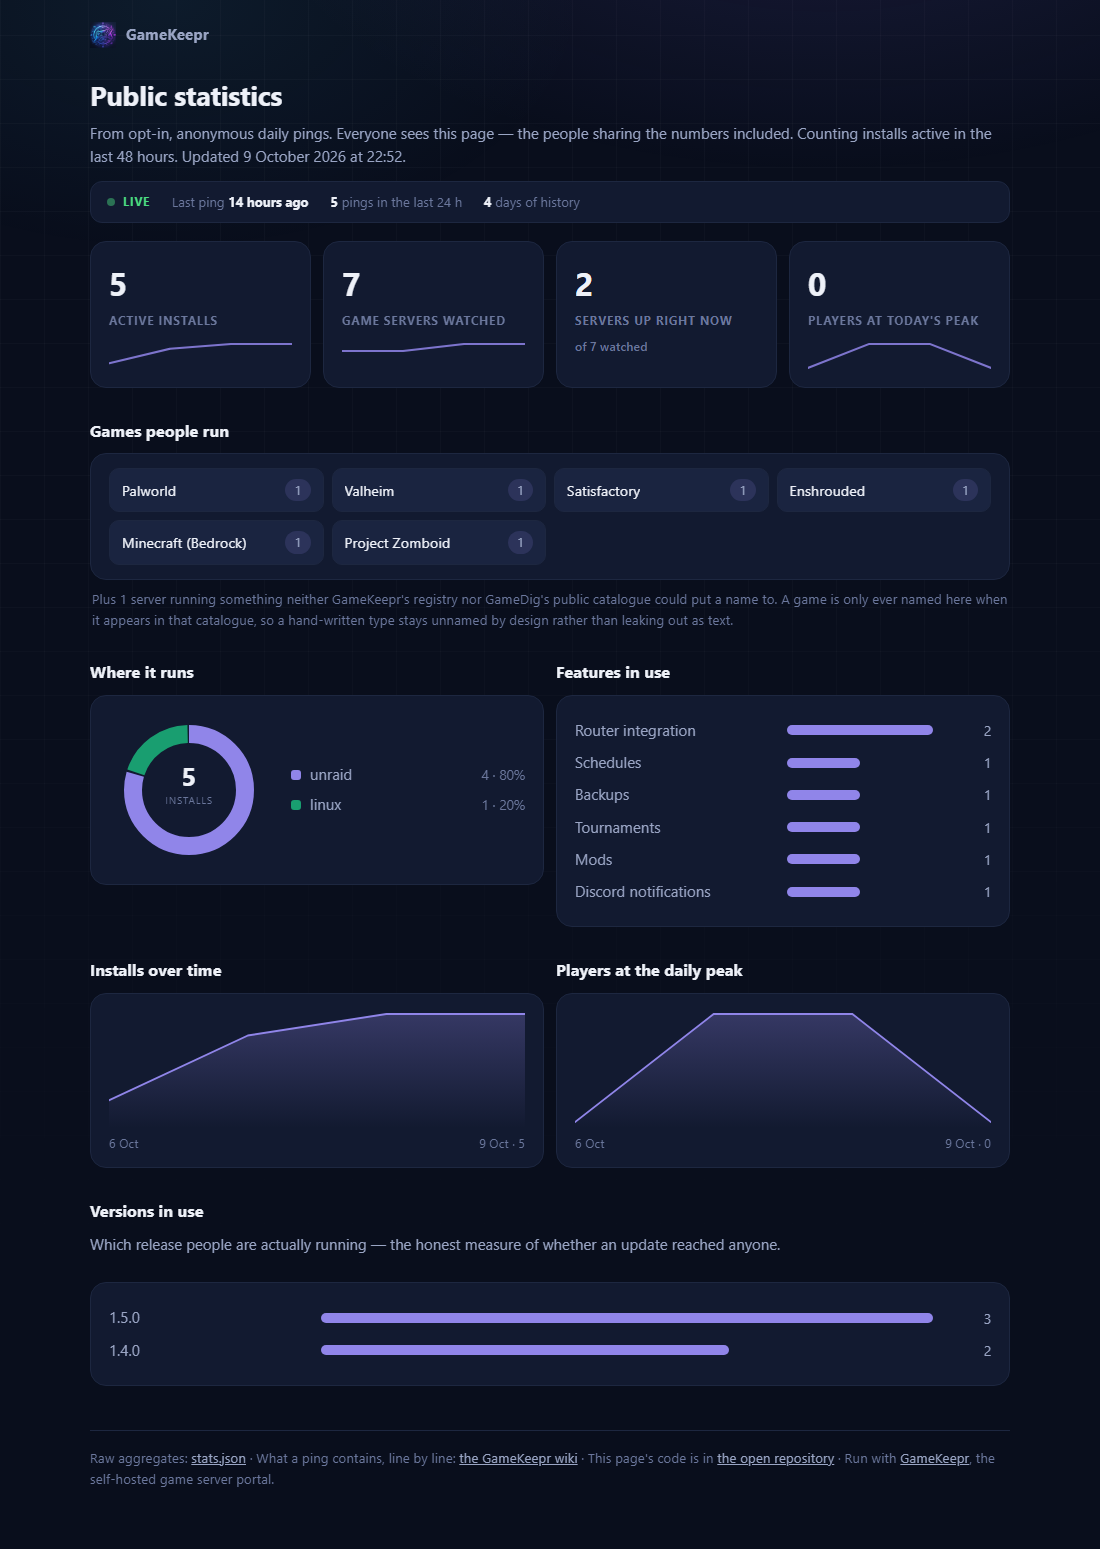
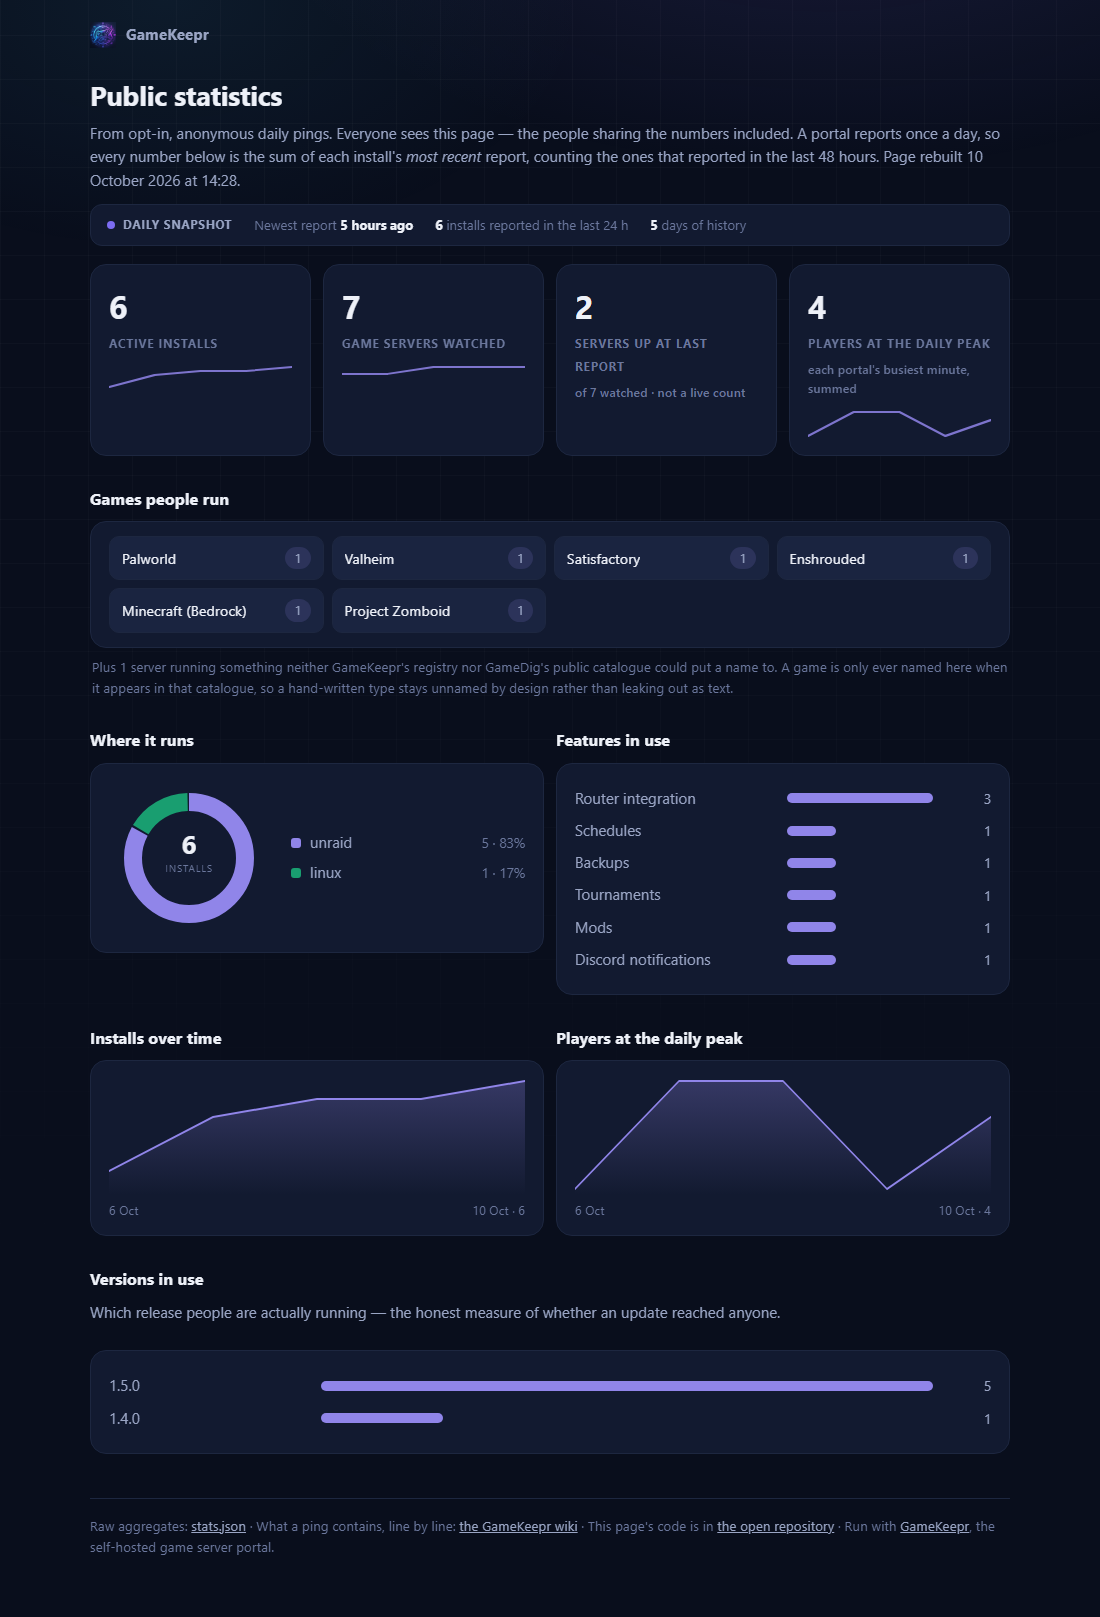
The page said "live" about numbers up to two days old
A portal reports once a day. Every figure on the statistics page is therefore
the sum of each install's most recent report, and the oldest of those may be
48 hours old. A pulsing green LIVE dot over that was the single dishonest
element on a page whose entire argument is that it tells you exactly what it
knows and nothing more.

It reads "Daily snapshot" now, the dot stopped pulsing, and the intro says
plainly that these are last reports rather than a feed. Three labels were
wrong in the same direction and went with it: the 24-hour figure counted
installs rather than pings (only the newest report per install is kept),
"servers up right now" is the count at each portal's last report, and the
peak sums each portal's own busiest minute, each measured at its own moment.

Deployed and re-shot for the wiki.

diff --git a/docs/changelog.html b/docs/changelog.html
@@ -26,7 +26,7 @@
 <h3>Changed</h3>
 <ul><li><strong>The public statistics page reads like a command centre.</strong> A status strip under the title says the page is listening rather than printed: a live dot, when the last ping landed, how many arrived in the last 24 hours and how many days of history exist. The four headline tiles carry a sparkline and, once there is a full week to compare against, how much they moved — never before, because a trend invented from two days is exactly the kind of confident nonsense this page exists not to produce. Games and the wish list became a board of counts instead of bars: every install runs one or two of a game, so a bar chart there was six bars of identical length, a shape that looks like data and carries none. The two trends now sit side by side, and <em>Versions in use</em> says why it is there — whether an update actually reached anyone. On a phone the tiles are a 2×2 board instead of a column. Still no chart library: this is a Cloudflare Worker, and every form is hand-rolled inline SVG on the validated palette.</li><li><strong>Fresh screenshots on the landing page and in the wiki.</strong> The shots on <a href="https://kengoossens.github.io/Gamekeep/" target="_blank" rel="noreferrer">the project page</a> dated from before 1.0.0 and showed a portal that no longer exists. Servers, the command centre, the Steam catalogue and the log console were all re-shot on 1.5.0, and the page now also says what deploy verification, tournaments and update detection do — three features it never mentioned.</li></ul>
 <h3>Fixed</h3>
-<ul><li><strong>&quot;Unknown&quot; no longer appears as a most-wanted game.</strong> A portal older than the wish-list split reports an unrecognised server as <code>Unknown</code> inside <code>games</code>, and the compatibility rule moved it onto the wish list — where it showed up as a bar literally labelled <em>Unknown</em>, which told a reader nothing and read like a bug. Those are now counted apart and written out as one sentence under <em>Games people run</em>: how many servers run something neither the registry nor GameDig could name, and why that is by design. Requires a mothership deploy to take effect.</li><li><strong>A failed metrics write could take the whole portal down.</strong> The sampler runs on a timer with no error handler, so a single failing insert — a database locked by a backup, a full disk — became an unhandled rejection and Node exited. Caught while shooting the new screenshots, where a second process held the database for a moment. The write is now guarded and the sample is dropped with a line in the log; the same guard was put on the down-detector and the update sweep, which had the same shape.</li></ul>
+<ul><li><strong>The statistics page called itself live, and it is not.</strong> A portal reports once a day, so every number on that page is the sum of each install's most recent report — some of them nearly two days old. A pulsing &quot;LIVE&quot; dot over that is the one dishonest thing on a page whose whole argument is that it says exactly what it knows. It now reads <em>Daily snapshot</em>, with a still dot. Three labels went with it: &quot;N pings in the last 24 h&quot; counted installs, not pings (only the newest report per install is kept), &quot;servers up right now&quot; is the count at each portal's last report, and &quot;players at today's peak&quot; sums each portal's own busiest minute, measured at different moments.</li><li><strong>&quot;Unknown&quot; no longer appears as a most-wanted game.</strong> A portal older than the wish-list split reports an unrecognised server as <code>Unknown</code> inside <code>games</code>, and the compatibility rule moved it onto the wish list — where it showed up as a bar literally labelled <em>Unknown</em>, which told a reader nothing and read like a bug. Those are now counted apart and written out as one sentence under <em>Games people run</em>: how many servers run something neither the registry nor GameDig could name, and why that is by design. Requires a mothership deploy to take effect.</li><li><strong>A failed metrics write could take the whole portal down.</strong> The sampler runs on a timer with no error handler, so a single failing insert — a database locked by a backup, a full disk — became an unhandled rejection and Node exited. Caught while shooting the new screenshots, where a second process held the database for a moment. The write is now guarded and the sample is dropped with a line in the log; the same guard was put on the down-detector and the update sweep, which had the same shape.</li></ul>
 <h2>1.5.0 — 2026-10-08</h2>
 <h3>Added</h3>
 <ul><li><strong>An invitation to be counted, shown once.</strong> A fresh install answers the statistics question during setup; a portal that <em>upgraded</em> into the feature never saw that box and would never learn the invitation existed. Owners now get a single dialog — with the same literal payload in it — offering <em>Yes, count me in</em> or <em>No thanks</em>. Either answer spends the invitation: nobody is asked twice, and the Settings switch stays available forever.</li><li><strong>The public statistics page became a real dashboard.</strong> Four headline tiles (active installs, servers watched, servers up, players at today's peak), a bar chart of the games people run, a donut of the platforms, a bar chart of which features get used, and two trends over time — installs and the daily player peak. Charts are hand-rolled inline SVG (a worker ships no chart library), with a palette validated for the dark surface: worst adjacent colour-blind separation ΔE 8.4, and every value is also written as text, so colour is never the only channel.</li><li><strong>Richer, still-anonymous numbers.</strong> The daily ping now also carries how many servers are <em>up</em>, how many people are playing right now, the busiest minute of the last day, and four more feature booleans (backups, mods, Discord notifications, router integration). Counts only: player names are known to the portal and never leave it. The wiki's table documents every new field, and the preview in Settings shows them before anyone opts in.</li></ul>

diff --git a/mothership/worker.js b/mothership/worker.js
@@ -486,11 +486,9 @@ h1 { margin: 0; font-size: 1.7rem; letter-spacing: -0.01em; }
   border-radius: 12px; color: var(--faint); font-size: 0.82rem;
 }
 .statusbar b { color: var(--text); font-weight: 650; font-variant-numeric: tabular-nums; }
-.live { display: inline-flex; align-items: center; gap: 8px; color: var(--ok); font-weight: 650;
+.snapshot { display: inline-flex; align-items: center; gap: 8px; color: var(--muted); font-weight: 650;
   text-transform: uppercase; letter-spacing: 0.08em; font-size: 0.72rem; }
-.live i { width: 8px; height: 8px; border-radius: 50%; background: var(--ok); animation: pulse 2.4s ease-in-out infinite; }
-@keyframes pulse { 0%, 100% { opacity: 1; } 50% { opacity: 0.35; } }
-@media (prefers-reduced-motion: reduce) { .live i { animation: none; } }
+.snapshot i { width: 8px; height: 8px; border-radius: 50%; background: var(--accent); flex: none; }
 
 /* The fleet board: identity and a count, dense enough to scan. */
 .board { display: grid; grid-template-columns: repeat(auto-fill, minmax(176px, 1fr)); gap: 8px; }
@@ -540,7 +538,8 @@ footer a { color: var(--muted); }
 <div class="brand"><img src="https://cdn.jsdelivr.net/gh/KenGoossens/Gamekeep@main/web/public/logo.png" alt="" width="26" height="26" /> GameKeepr</div>
 <h1>Public statistics</h1>
 <p class="sub">From opt-in, anonymous daily pings. Everyone sees this page — the people sharing the
-numbers included. Counting installs active in the last 48 hours. Updated
+numbers included. A portal reports once a day, so every number below is the sum of each install's
+<em>most recent</em> report, counting the ones that reported in the last 48 hours. Page rebuilt
 <time datetime="${esc(data.generatedAt)}">${esc(
     new Date(data.generatedAt).toLocaleString('en-GB', {
       day: 'numeric',
@@ -552,10 +551,16 @@ numbers included. Counting installs active in the last 48 hours. Updated
     }),
   )} UTC</time>.</p>
 
+<!--
+  Not "live", and the dot does not pulse. A portal reports once a day, so every
+  number here is the sum of each install's most recent report -- some of them
+  nearly two days old. Dressing that up as a live feed would be the one dishonest
+  thing on a page whose entire argument is that it tells you exactly what it knows.
+-->
 <div class="statusbar">
-  <span class="live"><i></i> Live</span>
-  <span>Last ping <b>${esc(ago(data.lastPingAt))}</b></span>
-  <span><b>${esc(data.pingsToday)}</b> ping${data.pingsToday === 1 ? '' : 's'} in the last 24 h</span>
+  <span class="snapshot"><i></i> Daily snapshot</span>
+  <span>Newest report <b>${esc(ago(data.lastPingAt))}</b></span>
+  <span><b>${esc(data.pingsToday)}</b> install${data.pingsToday === 1 ? '' : 's'} reported in the last 24 h</span>
   <span><b>${esc(data.history.length)}</b> day${data.history.length === 1 ? '' : 's'} of history</span>
 </div>
 
@@ -569,11 +574,12 @@ numbers included. Counting installs active in the last 48 hours. Updated
     ${sparkline(data.history, 'servers')}${trendNote(data.history, 'servers', esc)}
   </div>
   <div class="tile">
-    <b>${esc(data.serversRunning)}</b><span>servers up right now</span>
-    <span class="note">of ${esc(data.activeServers)} watched</span>
+    <b>${esc(data.serversRunning)}</b><span>servers up at last report</span>
+    <span class="note">of ${esc(data.activeServers)} watched · not a live count</span>
   </div>
   <div class="tile">
-    <b>${esc(data.playersPeak)}</b><span>players at today's peak</span>
+    <b>${esc(data.playersPeak)}</b><span>players at the daily peak</span>
+    <span class="note">each portal's busiest minute, summed</span>
     ${sparkline(data.history, 'players_peak')}${trendNote(data.history, 'players_peak', esc)}
   </div>
 </div>

diff --git a/CHANGELOG.md b/CHANGELOG.md
@@ -59,6 +59,16 @@ releases.
 
 ### Fixed
 
+- **The statistics page called itself live, and it is not.** A portal reports
+  once a day, so every number on that page is the sum of each install's most
+  recent report — some of them nearly two days old. A pulsing "LIVE" dot over
+  that is the one dishonest thing on a page whose whole argument is that it
+  says exactly what it knows. It now reads *Daily snapshot*, with a still dot.
+  Three labels went with it: "N pings in the last 24 h" counted installs, not
+  pings (only the newest report per install is kept), "servers up right now"
+  is the count at each portal's last report, and "players at today's peak"
+  sums each portal's own busiest minute, measured at different moments.
+
 - **"Unknown" no longer appears as a most-wanted game.** A portal older than
   the wish-list split reports an unrecognised server as `Unknown` inside
   `games`, and the compatibility rule moved it onto the wish list — where it
